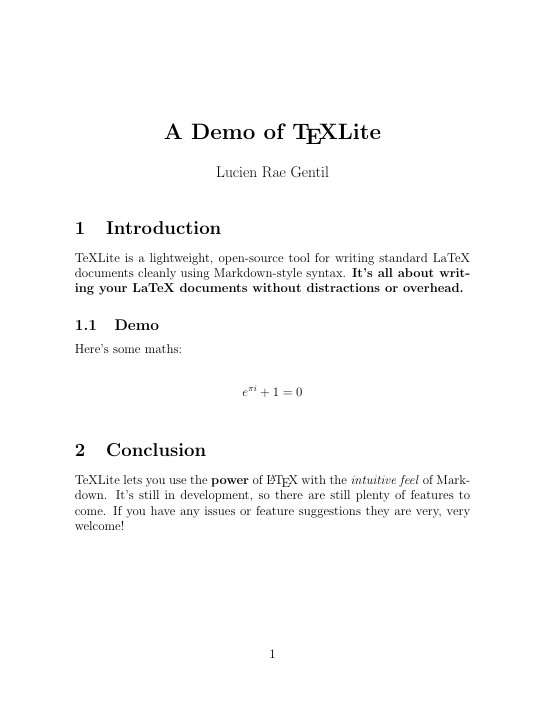
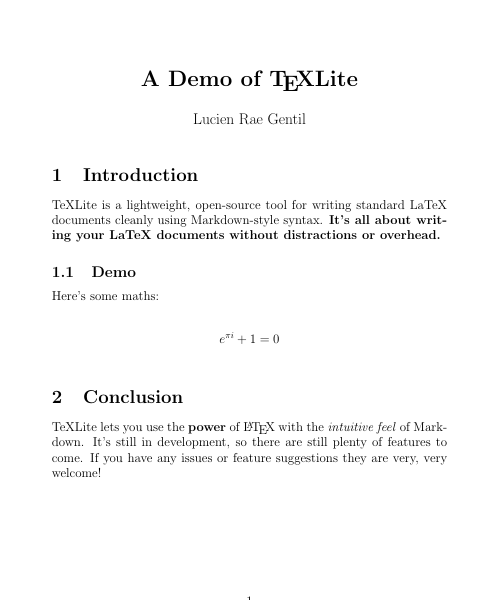
Update demo images and add extra Windows usage info

diff --git a/README.md b/README.md
@@ -43,7 +43,7 @@ Open the terminal, go to your document, and execute:
 $ texlite my_document.md
 ```
 
-Use `texlite --help` for options and information. Note that on Windows you may need to use `python -m texlite my_doc.md`.
+Use `texlite --help` for options and information. Note that on Windows you may need to use `python -m texlite my_document.md` instead, or add TeXLite to your `PATH`.
 
 ## Writing
 
